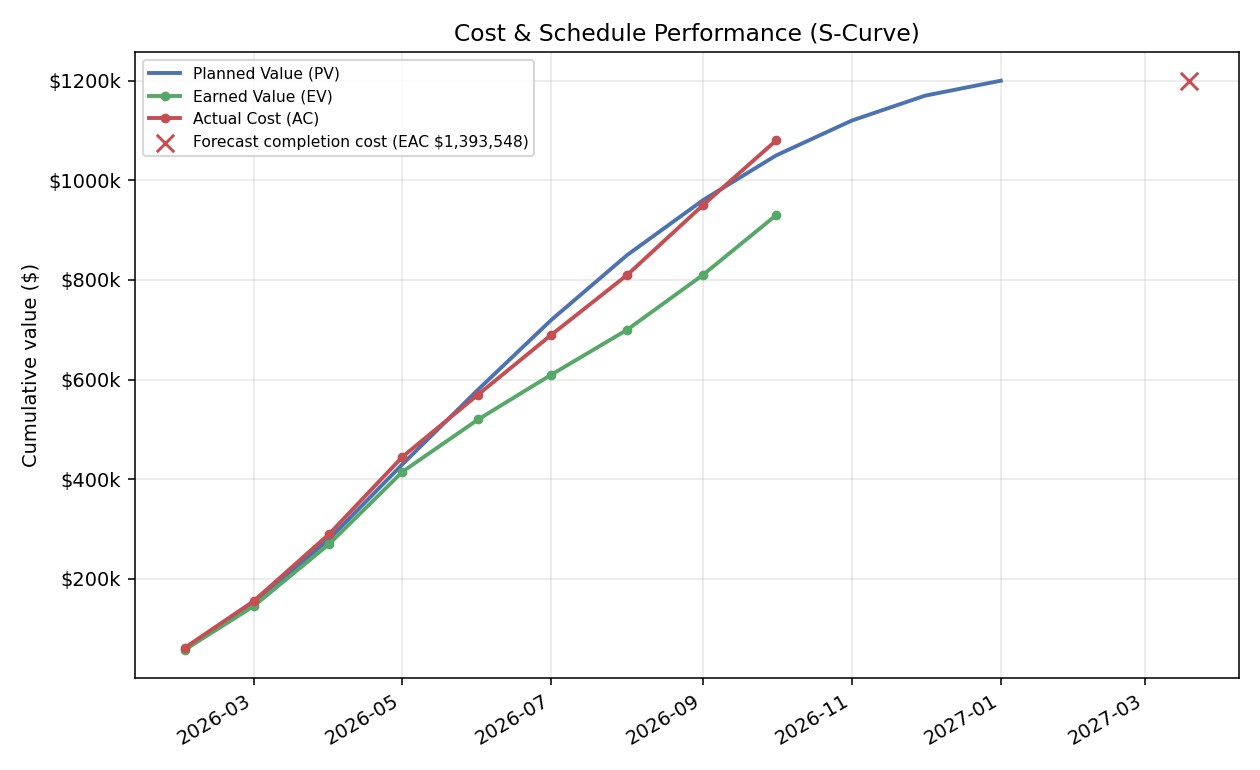
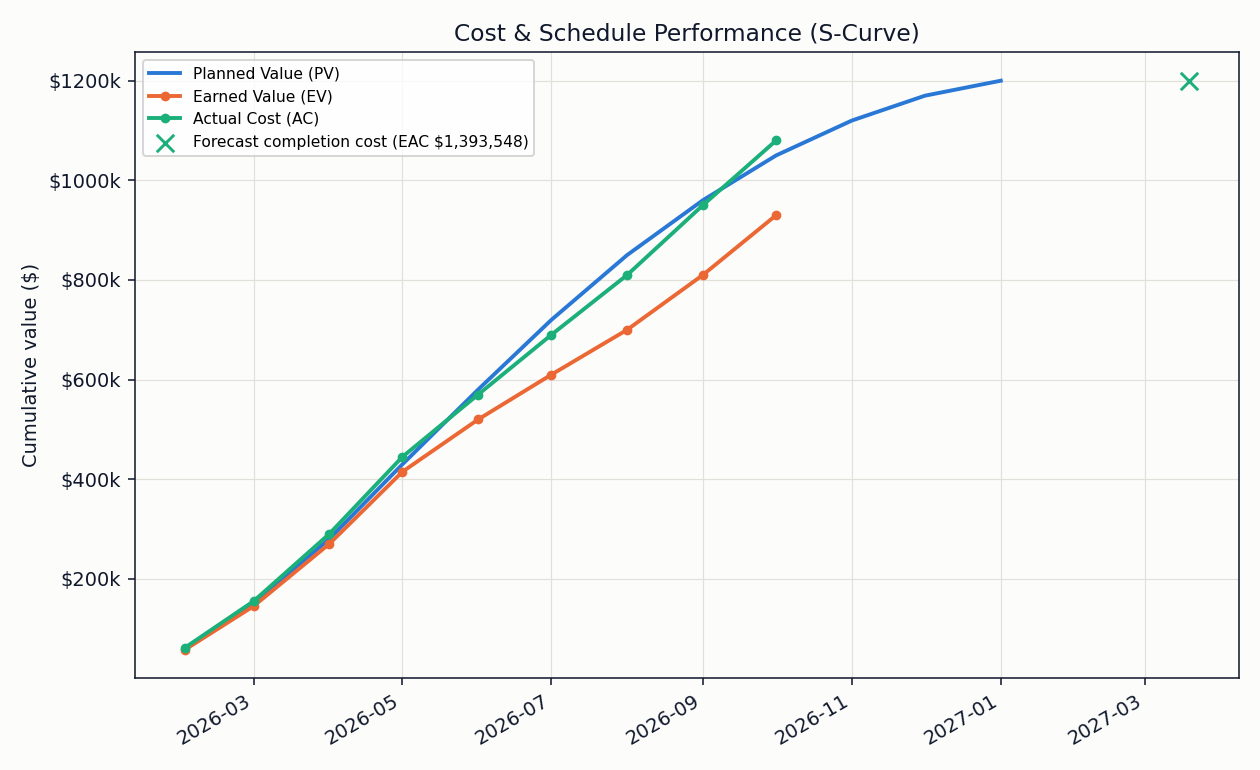
Standardize chart color system across the toolkit

diff --git a/dashboard.py b/dashboard.py
@@ -28,6 +28,35 @@ PROJECT_START = "2026-02-01"
 PLANNED_FINISH = "2027-01-31"
 STATUS_DATE = "2026-10-31"
 
+# Standardized chart color system (chart chrome, status scale, categorical series, baseline)
+CHART_BG = "#fcfcfb"
+INK = "#10182b"
+GRID = "#e1e0d9"
+BASELINE = "#3a4d7a"
+SERIES_1 = "#2a78d6"
+SERIES_2 = "#eb6834"
+SERIES_3 = "#1baf7a"
+STATUS_GOOD = "#0ca30c"
+STATUS_WARNING = "#fab219"
+STATUS_CRITICAL = "#d03b3b"
+
+
+def _apply_chrome(fig, axes) -> None:
+    """Apply the standardized chart chrome (background, ink, gridlines) to a figure."""
+    fig.patch.set_facecolor(CHART_BG)
+    if hasattr(axes, "flatten"):
+        axes = axes.flatten().tolist()
+    elif not isinstance(axes, (list, tuple)):
+        axes = [axes]
+    for ax in axes:
+        ax.set_facecolor(CHART_BG)
+        ax.title.set_color(INK)
+        ax.xaxis.label.set_color(INK)
+        ax.yaxis.label.set_color(INK)
+        ax.tick_params(colors=INK)
+        for spine in ax.spines.values():
+            spine.set_color(INK)
+
 
 def money(x: float) -> str:
     return f"${x:,.0f}"
@@ -106,18 +135,19 @@ def print_changes(changes, change_summary: dict) -> None:
 
 def chart_change_register(changes) -> None:
     ranked = changes.sort_values("cost_impact")
-    colors = ["#4C72B0" if s == "Approved" else "#DD8452" for s in ranked["status"]]
+    colors = [STATUS_GOOD if s == "Approved" else STATUS_WARNING for s in ranked["status"]]
     fig, ax = plt.subplots(figsize=(9, 5))
     ax.barh(ranked["change_id"] + " - " + ranked["category"], ranked["cost_impact"], color=colors)
-    ax.axvline(0, color="black", linewidth=0.8)
+    ax.axvline(0, color=INK, linewidth=0.8, alpha=0.6)
     ax.set_xlabel("Cost impact ($)")
     ax.set_title("Change Register: Cost Impact by Change")
-    handles = [plt.Rectangle((0, 0), 1, 1, color="#4C72B0", label="Approved"),
-               plt.Rectangle((0, 0), 1, 1, color="#DD8452", label="Pending")]
+    handles = [plt.Rectangle((0, 0), 1, 1, color=STATUS_GOOD, label="Approved"),
+               plt.Rectangle((0, 0), 1, 1, color=STATUS_WARNING, label="Pending")]
     ax.legend(handles=handles, loc="lower right", fontsize=8)
-    ax.grid(alpha=0.3, axis="x")
+    ax.grid(color=GRID, linewidth=0.6, axis="x")
+    _apply_chrome(fig, ax)
     fig.tight_layout()
-    fig.savefig(os.path.join(ASSETS_DIR, "change_register.png"), dpi=140)
+    fig.savefig(os.path.join(ASSETS_DIR, "change_register.png"), dpi=140, facecolor=CHART_BG)
     plt.close(fig)
 
 
@@ -200,22 +230,23 @@ def write_report_markdown(summary: dict, forecast_finish, milestones, risks, cha
 def chart_s_curve(ts, summary, forecast_finish) -> None:
     fig, ax = plt.subplots(figsize=(9, 5.5))
     ax.plot(ts["period_label"].to_numpy(), ts["planned_value_cum"].to_numpy(),
-            label="Planned Value (PV)", color="#4C72B0", linewidth=2)
+            label="Planned Value (PV)", color=SERIES_1, linewidth=2)
     actuals = metrics.actuals_only(ts)
     ax.plot(actuals["period_label"].to_numpy(), actuals["earned_value_cum"].to_numpy(),
-            label="Earned Value (EV)", color="#55A868", linewidth=2, marker="o", markersize=4)
+            label="Earned Value (EV)", color=SERIES_2, linewidth=2, marker="o", markersize=4)
     ax.plot(actuals["period_label"].to_numpy(), actuals["actual_cost_cum"].to_numpy(),
-            label="Actual Cost (AC)", color="#C44E52", linewidth=2, marker="o", markersize=4)
-    ax.scatter([forecast_finish], [BAC], color="#C44E52", marker="x", s=80,
+            label="Actual Cost (AC)", color=SERIES_3, linewidth=2, marker="o", markersize=4)
+    ax.scatter([forecast_finish], [BAC], color=SERIES_3, marker="x", s=80,
                label=f"Forecast completion cost (EAC {money(summary['eac'])})", zorder=5)
     ax.set_title("Cost & Schedule Performance (S-Curve)")
     ax.set_ylabel("Cumulative value ($)")
     ax.yaxis.set_major_formatter(mticker.FuncFormatter(lambda x, _: f"${x/1000:.0f}k"))
     ax.legend(loc="upper left", fontsize=8)
-    ax.grid(alpha=0.3)
+    ax.grid(color=GRID, linewidth=0.6)
+    _apply_chrome(fig, ax)
     fig.autofmt_xdate()
     fig.tight_layout()
-    fig.savefig(os.path.join(ASSETS_DIR, "s_curve.png"), dpi=140)
+    fig.savefig(os.path.join(ASSETS_DIR, "s_curve.png"), dpi=140, facecolor=CHART_BG)
     plt.close(fig)
 
 
@@ -223,39 +254,41 @@ def chart_spi_cpi_trend(ts) -> None:
     scored = metrics.add_performance_indices(metrics.actuals_only(ts))
     fig, ax = plt.subplots(figsize=(9, 4.5))
     ax.plot(scored["period_label"].to_numpy(), scored["spi"].to_numpy(), label="SPI",
-            color="#4C72B0", linewidth=2, marker="o")
+            color=SERIES_1, linewidth=2, marker="o")
     ax.plot(scored["period_label"].to_numpy(), scored["cpi"].to_numpy(), label="CPI",
-            color="#DD8452", linewidth=2, marker="o")
-    ax.axhline(1.0, color="gray", linestyle="--", linewidth=1)
+            color=SERIES_2, linewidth=2, marker="o")
+    ax.axhline(1.0, color=BASELINE, linestyle="--", linewidth=1)
     ax.set_title("SPI / CPI Trend")
     ax.set_ylabel("Index (1.0 = on plan)")
     ax.legend(fontsize=8)
-    ax.grid(alpha=0.3)
+    ax.grid(color=GRID, linewidth=0.6)
+    _apply_chrome(fig, ax)
     fig.autofmt_xdate()
     fig.tight_layout()
-    fig.savefig(os.path.join(ASSETS_DIR, "spi_cpi_trend.png"), dpi=140)
+    fig.savefig(os.path.join(ASSETS_DIR, "spi_cpi_trend.png"), dpi=140, facecolor=CHART_BG)
     plt.close(fig)
 
 
 def chart_milestones(milestones) -> None:
-    colors = {"On Track": "#55A868", "At Risk": "#DD8452", "Delayed": "#C44E52"}
+    colors = {"On Track": STATUS_GOOD, "At Risk": STATUS_WARNING, "Delayed": STATUS_CRITICAL}
     fig, ax = plt.subplots(figsize=(9, 5))
     y = range(len(milestones))
     for i, row in milestones.iterrows():
         xs = pd.to_datetime([row["planned_date"], row["current_date"]]).to_numpy()
         ax.plot(xs, [i, i], color=colors[row["milestone_status"]], linewidth=3,
                 solid_capstyle="round")
-        ax.scatter(row["planned_date"], i, color="black", marker="|", s=100, zorder=3)
+        ax.scatter(row["planned_date"], i, color=INK, marker="|", s=100, zorder=3)
     ax.set_yticks(list(y))
     ax.set_yticklabels(milestones["milestone"], fontsize=8)
     ax.invert_yaxis()
-    ax.set_title("Milestones: Planned vs Actual/Forecast (black tick = planned date)")
+    ax.set_title("Milestones: Planned vs Actual/Forecast (ink tick = planned date)")
     handles = [plt.Line2D([0], [0], color=c, linewidth=3, label=s) for s, c in colors.items()]
     ax.legend(handles=handles, loc="lower right", fontsize=8)
-    ax.grid(alpha=0.3, axis="x")
+    ax.grid(color=GRID, linewidth=0.6, axis="x")
+    _apply_chrome(fig, ax)
     fig.autofmt_xdate()
     fig.tight_layout()
-    fig.savefig(os.path.join(ASSETS_DIR, "milestones.png"), dpi=140)
+    fig.savefig(os.path.join(ASSETS_DIR, "milestones.png"), dpi=140, facecolor=CHART_BG)
     plt.close(fig)
 
 
@@ -281,10 +314,10 @@ def chart_risk_matrix(risks) -> None:
     open_risks = risks[risks["status"] != "Closed"]
     closed_risks = risks[risks["status"] == "Closed"]
     ax.scatter(open_risks["plot_probability"].to_numpy(), open_risks["plot_impact"].to_numpy(),
-               s=(open_risks["exposure"] * 60).to_numpy(), color="#C44E52", alpha=0.7,
+               s=(open_risks["exposure"] * 60).to_numpy(), color=STATUS_WARNING, alpha=0.7,
                edgecolor="white", label="Open / Mitigating")
     ax.scatter(closed_risks["plot_probability"].to_numpy(), closed_risks["plot_impact"].to_numpy(),
-               s=(closed_risks["exposure"] * 60).to_numpy(), color="#8C8C8C", alpha=0.5,
+               s=(closed_risks["exposure"] * 60).to_numpy(), color=STATUS_GOOD, alpha=0.5,
                edgecolor="white", label="Closed")
     for _, row in risks.iterrows():
         ax.annotate(row["risk_id"], (row["plot_probability"], row["plot_impact"]),
@@ -295,9 +328,10 @@ def chart_risk_matrix(risks) -> None:
     ax.set_ylabel("Impact (1-5)")
     ax.set_title("Risk Matrix (bubble size = exposure)")
     ax.legend(loc="upper left", fontsize=8)
-    ax.grid(alpha=0.3)
+    ax.grid(color=GRID, linewidth=0.6)
+    _apply_chrome(fig, ax)
     fig.tight_layout()
-    fig.savefig(os.path.join(ASSETS_DIR, "risk_matrix.png"), dpi=140)
+    fig.savefig(os.path.join(ASSETS_DIR, "risk_matrix.png"), dpi=140, facecolor=CHART_BG)
     plt.close(fig)
 
 

diff --git a/README.md b/README.md
@@ -98,7 +98,7 @@ the cost-performance-adjusted forecast at completion.
 
 ![SPI/CPI trend](assets/spi_cpi_trend.png)
 
-**Milestones** — planned date (black tick) vs. actual/forecast, colored by
+**Milestones** — planned date (ink tick) vs. actual/forecast, colored by
 status.
 
 ![Milestones](assets/milestones.png)
